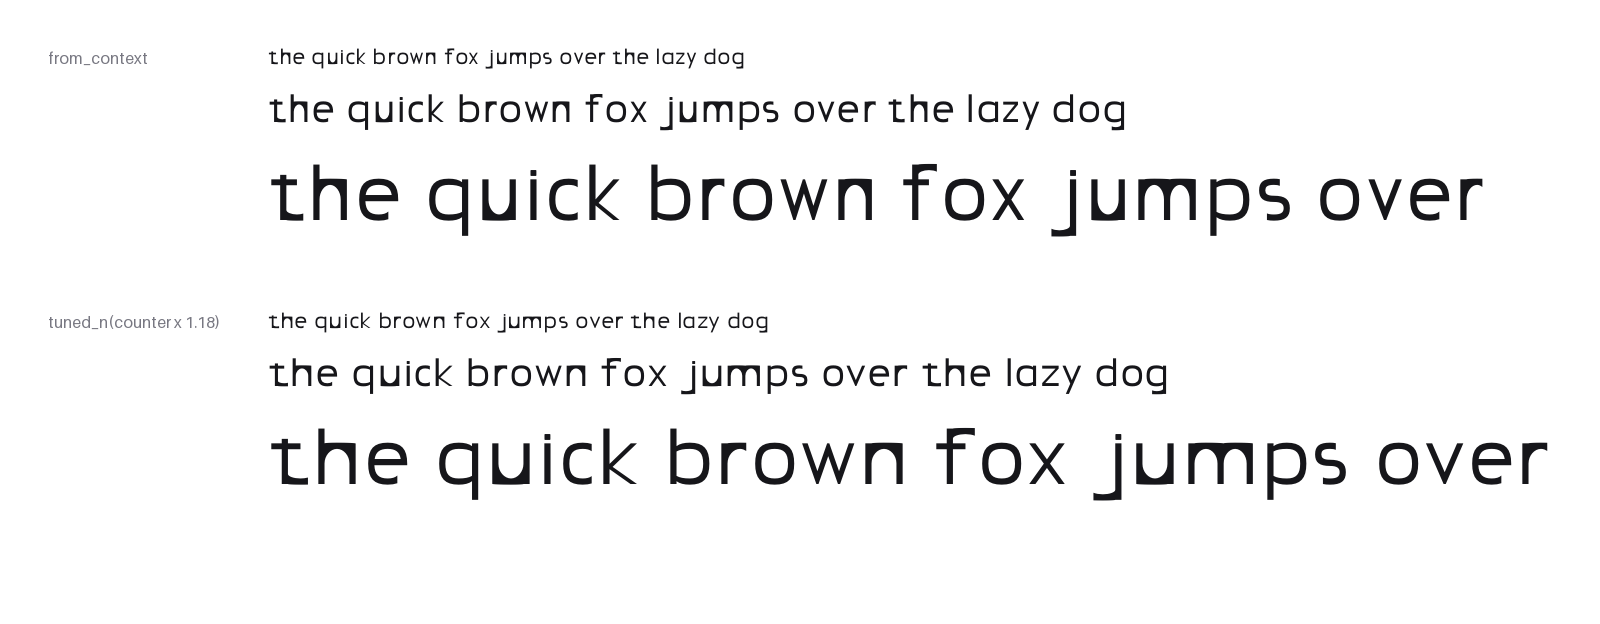
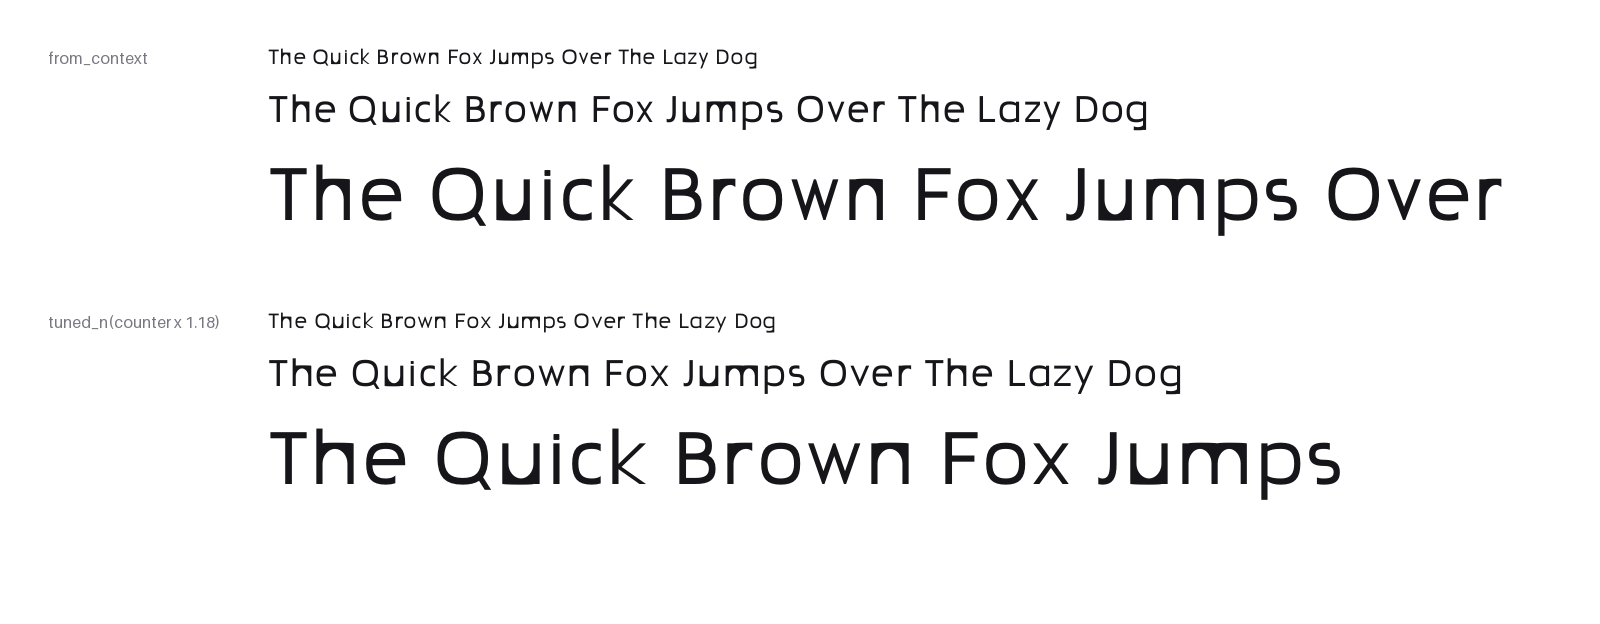
docs(examples): proof capitals alongside the lowercase
first_font sets a mixed-case pangram and the weight ramp an all-caps one;
both add straight / round capital kerning classes.

diff --git a/examples/first_font/build_font.py b/examples/first_font/build_font.py
@@ -2,7 +2,7 @@
 
 1. Brief / proportions   → DesignContext
 2. Control glyphs        → Controls (the n and o design records)
-3. Related forms         → Controls.build_all(): the lowercase a–z from n and o
+3. Related forms         → Controls.build_all(): a–z from n / o, A–Z from H / O
 4. Spacing               → optical sidebearings per glyph
 5. Kerning               → class kerning fitted to the n/o rhythm
 6. Font                  → Font (names, cmap, metrics, zones, anchors, kerning)
@@ -31,7 +31,7 @@ OUT_DIR = HERE / "out"
 DOCS_IMG = HERE.parents[1] / "docs" / "images"
 
 FAMILY = "Typekernel First"
-PROOF_TEXT = "the quick brown fox jumps over the lazy dog"
+PROOF_TEXT = "The Quick Brown Fox Jumps Over The Lazy Dog"
 
 
 def design(controls: Controls, family: str = FAMILY) -> Font:
@@ -42,7 +42,12 @@ def design(controls: Controls, family: str = FAMILY) -> Font:
         for ch, g in drawn.items()
     }
 
-    classes = (KernClass("straight", ("n", "h", "m", "i", "l", "u")), KernClass("round", ("o",)))
+    classes = (
+        KernClass("straight", ("n", "h", "m", "i", "l", "u")),
+        KernClass("round", ("o",)),
+        KernClass("straight_caps", ("H", "I", "M", "N", "U")),
+        KernClass("round_caps", ("O", "C", "G", "Q")),
+    )
     rhythm = rhythm_from_control_glyphs(spaced["n"], spaced["o"])
     kerning = auto_class_kern(spaced, classes, target=rhythm)
 

diff --git a/examples/variable_family/build_vf.py b/examples/variable_family/build_vf.py
@@ -28,8 +28,13 @@ OUT_DIR = HERE / "out"
 DOCS_IMG = HERE.parents[1] / "docs" / "images"
 
 FAMILY = "Typekernel Var"
-TEXT = "the quick brown fox jumps over the lazy dog"
-CLASSES = (KernClass("straight", ("n", "h", "m", "i", "l", "u")), KernClass("round", ("o",)))
+TEXT = "SPHINX OF BLACK QUARTZ judge my vow"
+CLASSES = (
+    KernClass("straight", ("n", "h", "m", "i", "l", "u")),
+    KernClass("round", ("o",)),
+    KernClass("straight_caps", ("H", "I", "M", "N", "U")),
+    KernClass("round_caps", ("O", "C", "G", "Q")),
+)
 
 
 def master_controls(base: DesignContext, stem: float) -> Controls:

diff --git a/README.md b/README.md
@@ -52,7 +52,7 @@ from typekernel.parts import Controls, DesignContext
 ctx = DesignContext.code_clear()
 controls = Controls.from_context(ctx).tuned_n(counter=290)  # 控制表：改 n，h m r u 跟着变
 font = Font.from_context(ctx, "My Sans")          # 含 .notdef、space、度量、对齐区
-font.add_chars(controls.build_all())              # b d h i l m n o p q r u
+font.add_chars(controls.build_all())              # a–z from n / o, A–Z from H / O
 build_font(font, "out/")                          # MySans-Regular.ufo / .otf / .ttf
 ```
 
